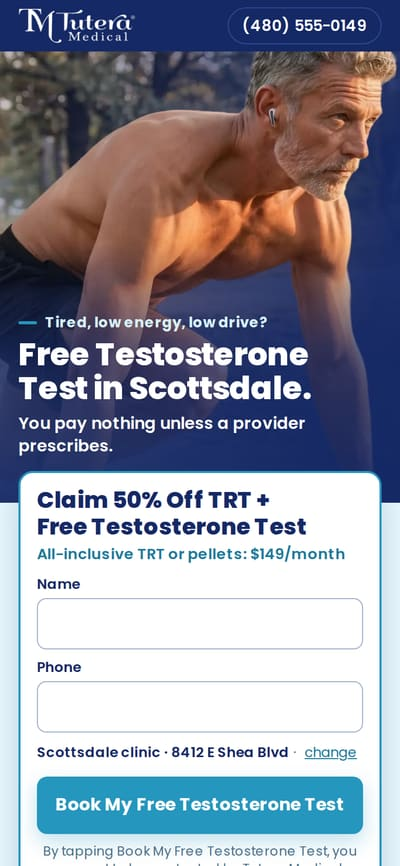
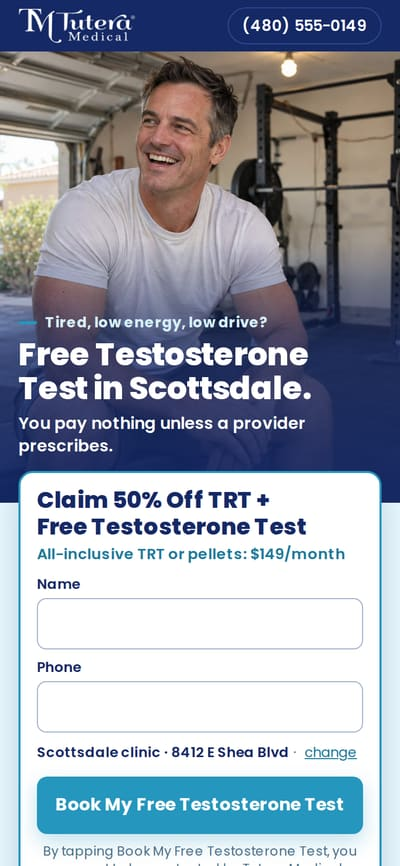
Photo update part 1: Full-Photo Hero, Offer First, Three Price Cards, Dark Value Stack get Jacob's final photos; Fable-6 drops the medication row

diff --git a/pages/fable6-bold/index.html b/pages/fable6-bold/index.html
@@ -34,7 +34,7 @@ img{max-width:100%;height:auto;display:block}
 .hero{position:relative;background:var(--cream);padding-bottom:28px}
 .hphoto{position:relative;height:440px;overflow:hidden;background:var(--ink)}
 .hphoto picture{display:contents}
-.hphoto img{width:100%;height:100%;object-fit:cover;object-position:50% 8%}
+.hphoto img{width:100%;height:100%;object-fit:cover;object-position:30% 30%}
 .hphoto::after{content:"";position:absolute;inset:0;background:linear-gradient(180deg,rgba(21,41,102,0) 42%,rgba(21,41,102,.7) 66%,rgba(21,41,102,.94) 100%)}
 .hero>.wrap{position:relative;z-index:1;margin-top:-186px}
 .htext{color:#fff}
@@ -145,7 +145,7 @@ footer{background:var(--ink2);color:#b9c4da;font-size:13px;padding:18px 0 96px}
   .hero{padding-bottom:40px;background:var(--ink)}
   /* 2026-11-20 (Jacob): the navy photo hero holds the whole form on desktop; no light-blue strip under it. */
   .hphoto{position:absolute;left:0;right:0;top:0;bottom:0;height:auto}
-  .hphoto img{object-position:60% 30%}
+  .hphoto img{object-position:50% 0%}
   .hphoto::after{background:linear-gradient(90deg,rgba(21,41,102,.92) 0%,rgba(21,41,102,.7) 34%,rgba(21,41,102,0) 62%)}
   .hero>.wrap{margin-top:0}
   .htext{position:static;padding-top:56px;max-width:600px}
@@ -218,11 +218,11 @@ footer{background:var(--ink2);color:#b9c4da;font-size:13px;padding:18px 0 96px}
 
 <main>
 <div class="hero">
-  <!-- Face mark ▲A, one slot: phone shows r2-trailhead-grey-tee-hands-hips, desktop shows the wide r2-hero-16x9-trailhead-standing (same man, same shoot). -->
+  <!-- Hero (Jacob's picks 2026-11-20): drive-01-paddle-carry, phone original, desktop mirrored, as built in v4/fable6-bold-photos-1. -->
   <div class="hphoto">
     <picture>
-      <source media="(min-width:860px)" srcset="hero-stand-d.jpg" width="1400" height="788">
-      <img src="hero-stand-m.jpg" width="1120" height="1400" alt="" fetchpriority="high">
+      <source media="(min-width:860px)" srcset="hero-paddle-flip.jpg" width="1536" height="1152">
+      <img src="hero-paddle.jpg" width="1536" height="1152" alt="" fetchpriority="high">
     </picture>
   </div>
   <div class="wrap">
@@ -271,8 +271,8 @@ footer{background:var(--ink2);color:#b9c4da;font-size:13px;padding:18px 0 96px}
 
 <section class="split">
   <div class="media">
-    <!-- r2-trailhead-navy-tee-hands-hips (distinct face) -->
-    <img src="symptoms-navy.jpg" width="880" height="1100" loading="lazy" alt="" style="object-position:50% 12%">
+    <!-- Garage kettlebell swing (r3-gemini-kettlebell), as on v3/fable6-bold-three-cards-first -->
+    <img src="sec-kettlebell-a.jpg" width="880" height="1100" loading="lazy" alt="" style="object-position:50% 20%">
     <div class="head"><h2>Sound familiar?</h2></div>
   </div>
   <div class="txt">
@@ -287,8 +287,8 @@ footer{background:var(--ink2);color:#b9c4da;font-size:13px;padding:18px 0 96px}
 
 <section class="split rev sand">
   <div class="media">
-    <!-- r2-trail-shoe-tie (distinct face) -->
-    <img src="steps-shoetie.jpg" width="880" height="1100" loading="lazy" alt="" style="object-position:50% 20%">
+    <!-- Rope climb (r3-gemini-rope-climb), as on v3/fable6-bold-three-cards-first -->
+    <img src="sec-ropeclimb.jpg" width="880" height="1100" loading="lazy" alt="" style="object-position:50% 22%">
     <div class="head"><h2>From free test to treatment plan.</h2></div>
   </div>
   <div class="txt">
@@ -304,8 +304,8 @@ footer{background:var(--ink2);color:#b9c4da;font-size:13px;padding:18px 0 96px}
 
 <section class="split">
   <div class="media">
-    <!-- r2-trailhead-olive-tee-thumb-pocket (face mark ●B) -->
-    <img src="price-olive.jpg" width="880" height="1100" loading="lazy" alt="" style="object-position:50% 12%">
+    <!-- drive-02-gym-chalk, crop as v4/fable6-bold-photos-1 Sound familiar slot -->
+    <img src="price-chalk.jpg" width="1536" height="1152" loading="lazy" alt="" style="object-position:34% 30%">
     <div class="head"><h2>You pay only if a provider prescribes.</h2></div>
   </div>
   <div class="txt">
@@ -381,8 +381,8 @@ footer{background:var(--ink2);color:#b9c4da;font-size:13px;padding:18px 0 96px}
 
 <section class="split rev close">
   <div class="media">
-    <!-- r2-trail-run-grey-tee (face mark ■C) -->
-    <img src="close-run.jpg" width="880" height="1100" loading="lazy" alt="" style="object-position:50% 10%">
+    <!-- drive-09-cafe-film, crop as v4/fable6-bold-photos-2 steps slot -->
+    <img src="close-cafe.jpg" width="1200" height="896" loading="lazy" alt="" style="object-position:52% 35%">
     <div class="head"><h2>Check your testosterone levels today.</h2></div>
   </div>
   <div class="txt">

diff --git a/pages/dark-value-stack/index.html b/pages/dark-value-stack/index.html
@@ -34,7 +34,7 @@ img{max-width:100%;height:auto;display:block}
 .hero{position:relative;background:var(--cream);padding-bottom:28px}
 .hphoto{position:relative;height:440px;overflow:hidden;background:var(--ink)}
 .hphoto picture{display:contents}
-.hphoto img{width:100%;height:100%;object-fit:cover;object-position:100% 0}
+.hphoto img{width:100%;height:100%;object-fit:cover;object-position:53% 0}
 .hphoto::after{content:"";position:absolute;inset:0;background:linear-gradient(180deg,rgba(21,41,102,0) 42%,rgba(21,41,102,.7) 66%,rgba(21,41,102,.94) 100%)}
 .hero>.wrap{position:relative;z-index:1;margin-top:-186px}
 .htext{color:#fff}
@@ -163,7 +163,7 @@ footer{background:var(--ink2);color:#b9c4da;font-size:13px;padding:18px 0 96px}
   .hero{background:var(--ink)}
   /* Jacob 2026-11-20: photo panel on the LEFT, headline and form on the RIGHT */
   .hphoto{position:absolute;left:0;top:0;bottom:0;width:44%;height:auto}
-  .hphoto img{object-position:100% 0}
+  .hphoto img{object-position:58% 0}
   /* Jacob 2026-11-20: no navy fade over his face; the photo panel ends on a crisp edge against the navy */
   .hphoto::after{display:none}
   .rate1{color:#fff}
@@ -269,9 +269,9 @@ footer{background:var(--ink2);color:#b9c4da;font-size:13px;padding:18px 0 96px}
 
 <main>
 <div class="hero">
-  <!-- HERO: Tutera's own sprint-start athlete, the hero of Oscar's Page A (Jacob: "use the original image that we were using for variant A from Oscar"). Cropped on the PC from the original 2880x998 file (x 1060-2260) to drop the baked-in left haze and most of the blue panel. Same crop on phone (full-bleed) and desktop (tall panel on the right). -->
+  <!-- HERO, phone and desktop: drive-03-garage-gym (Jacob's picks 2026-11-20, as built in v4/dark-value-stack-photos-3). The desktop panel keeps its clean right edge, no fade over the face. -->
   <div class="hphoto">
-    <img src="hero-sprint.jpg" width="1200" height="998" alt="" fetchpriority="high">
+    <img src="hero-garage.jpg" width="1536" height="1152" alt="" fetchpriority="high">
   </div>
   <div class="wrap">
     <div class="htext">
@@ -319,8 +319,8 @@ footer{background:var(--ink2);color:#b9c4da;font-size:13px;padding:18px 0 96px}
 
 <section class="split rev dark-vs">
   <div class="media">
-    <!-- PHOTO SLOT: price section. r3-gptimage2-kettlebell (round 3, gpt-image-2; distinct man). -->
-    <img src="sec-kettlebell-b.jpg" width="880" height="1100" loading="lazy" alt="" style="object-position:50% 18%">
+    <!-- PHOTO SLOT: above the dark value stack: drive-04-tailgate (Jacob's picks 2026-11-20, as built in v4/dark-value-stack-photos-3). -->
+    <img src="price-tailgate.jpg" width="1536" height="1152" loading="lazy" alt="" style="object-position:3% 30%">
     <div class="head"><h2>You pay only if a&nbsp;provider prescribes.</h2></div>
   </div>
   <div class="txt">

diff --git a/pages/fable6/index.html b/pages/fable6/index.html
@@ -9,7 +9,6 @@
 <meta name="viewport" content="width=device-width, initial-scale=1">
 <title>Free Testosterone Test in Scottsdale | TRT $149/Month | Tutera Medical</title>
 <meta name="description" content="Tired, low energy, low drive? Free testosterone test and consultation at Tutera Medical in Scottsdale. If a provider prescribes TRT: $149/month, 50% off the regular $299. You pay nothing unless a provider prescribes.">
-<meta name="robots" content="noindex">
 <meta name="robots" content="noindex, nofollow">
 <style>
 /* Poppins is Tutera's brand font, self-hosted here (latin subset, SIL Open Font License) so the page makes no outside requests. */
@@ -318,7 +317,6 @@ footer{background:var(--ink2);color:#b9c4da;font-size:13px;padding:18px 0 96px}
       <h3 class="kicker" style="margin-top:26px">Everything included in $149/month</h3>
       <ul class="incl">
         <li>TRT injections or pellets, your choice</li>
-        <li>Medication included when prescribed</li>
         <li>In-office lab work and bloodwork</li>
         <li>Licensed provider consultations</li>
         <li>Follow-up labs at 6-8 weeks and ongoing monitoring</li>

diff --git a/pages/three-price-cards/index.html b/pages/three-price-cards/index.html
@@ -432,10 +432,10 @@ footer{background:var(--ink2);color:#b9c4da;font-size:13px;padding:18px 0 96px}
 
 <section class="split rev close">
   <div class="media">
-    <!-- PHOTO SLOT: closing form. Phone: r3-gemini-pullup (head high in frame, so the heading on the photo clears his face). Desktop half: r3-gemini-boxing. Round 3, Gemini, two distinct men; only one shows per layout. -->
+    <!-- PHOTO SLOT: closing form, phone and desktop: drive-03-garage-gym, mirrored (Jacob's picks 2026-11-20, as built in v4/three-price-cards-photos-5). -->
     <picture>
-      <source media="(min-width:860px)" srcset="sec-boxing.jpg" width="880" height="1100">
-      <img src="sec-pullup.jpg" width="880" height="1100" loading="lazy" alt="" style="object-position:50% 8%">
+      <source media="(min-width:860px)" srcset="close-garage-flip.jpg" width="1536" height="1152">
+      <img src="close-garage-flip.jpg" width="1536" height="1152" loading="lazy" alt="" style="object-position:54% 30%">
     </picture>
     <div class="head"><h2>Check your testosterone levels today.</h2></div>
   </div>

diff --git a/pages/offer-hero/index.html b/pages/offer-hero/index.html
@@ -796,10 +796,10 @@
 
 <section class="split rev close">
   <div class="media">
-    <!-- PHOTO SLOT: closing form. Phone: r3-gemini-pullup. Desktop half: r3-gemini-boxing. Two distinct men; only one shows per layout. -->
+    <!-- PHOTO SLOT: closing form, phone and desktop: drive-01-paddle-carry (Jacob's picks 2026-11-20, as built in v4/offer-hero-photos-3). -->
     <picture>
-      <source media="(min-width:860px)" srcset="sec-boxing.jpg" width="880" height="1100">
-      <img src="sec-pullup.jpg" width="880" height="1100" loading="lazy" alt="" style="object-position:50% 8%">
+      <source media="(min-width:860px)" srcset="close-paddle.jpg" width="880" height="1100">
+      <img src="close-paddle.jpg" width="880" height="1100" loading="lazy" alt="" style="object-position:40% 30%">
     </picture>
     <div class="head"><h2>Check your testosterone levels today.</h2></div>
   </div>
